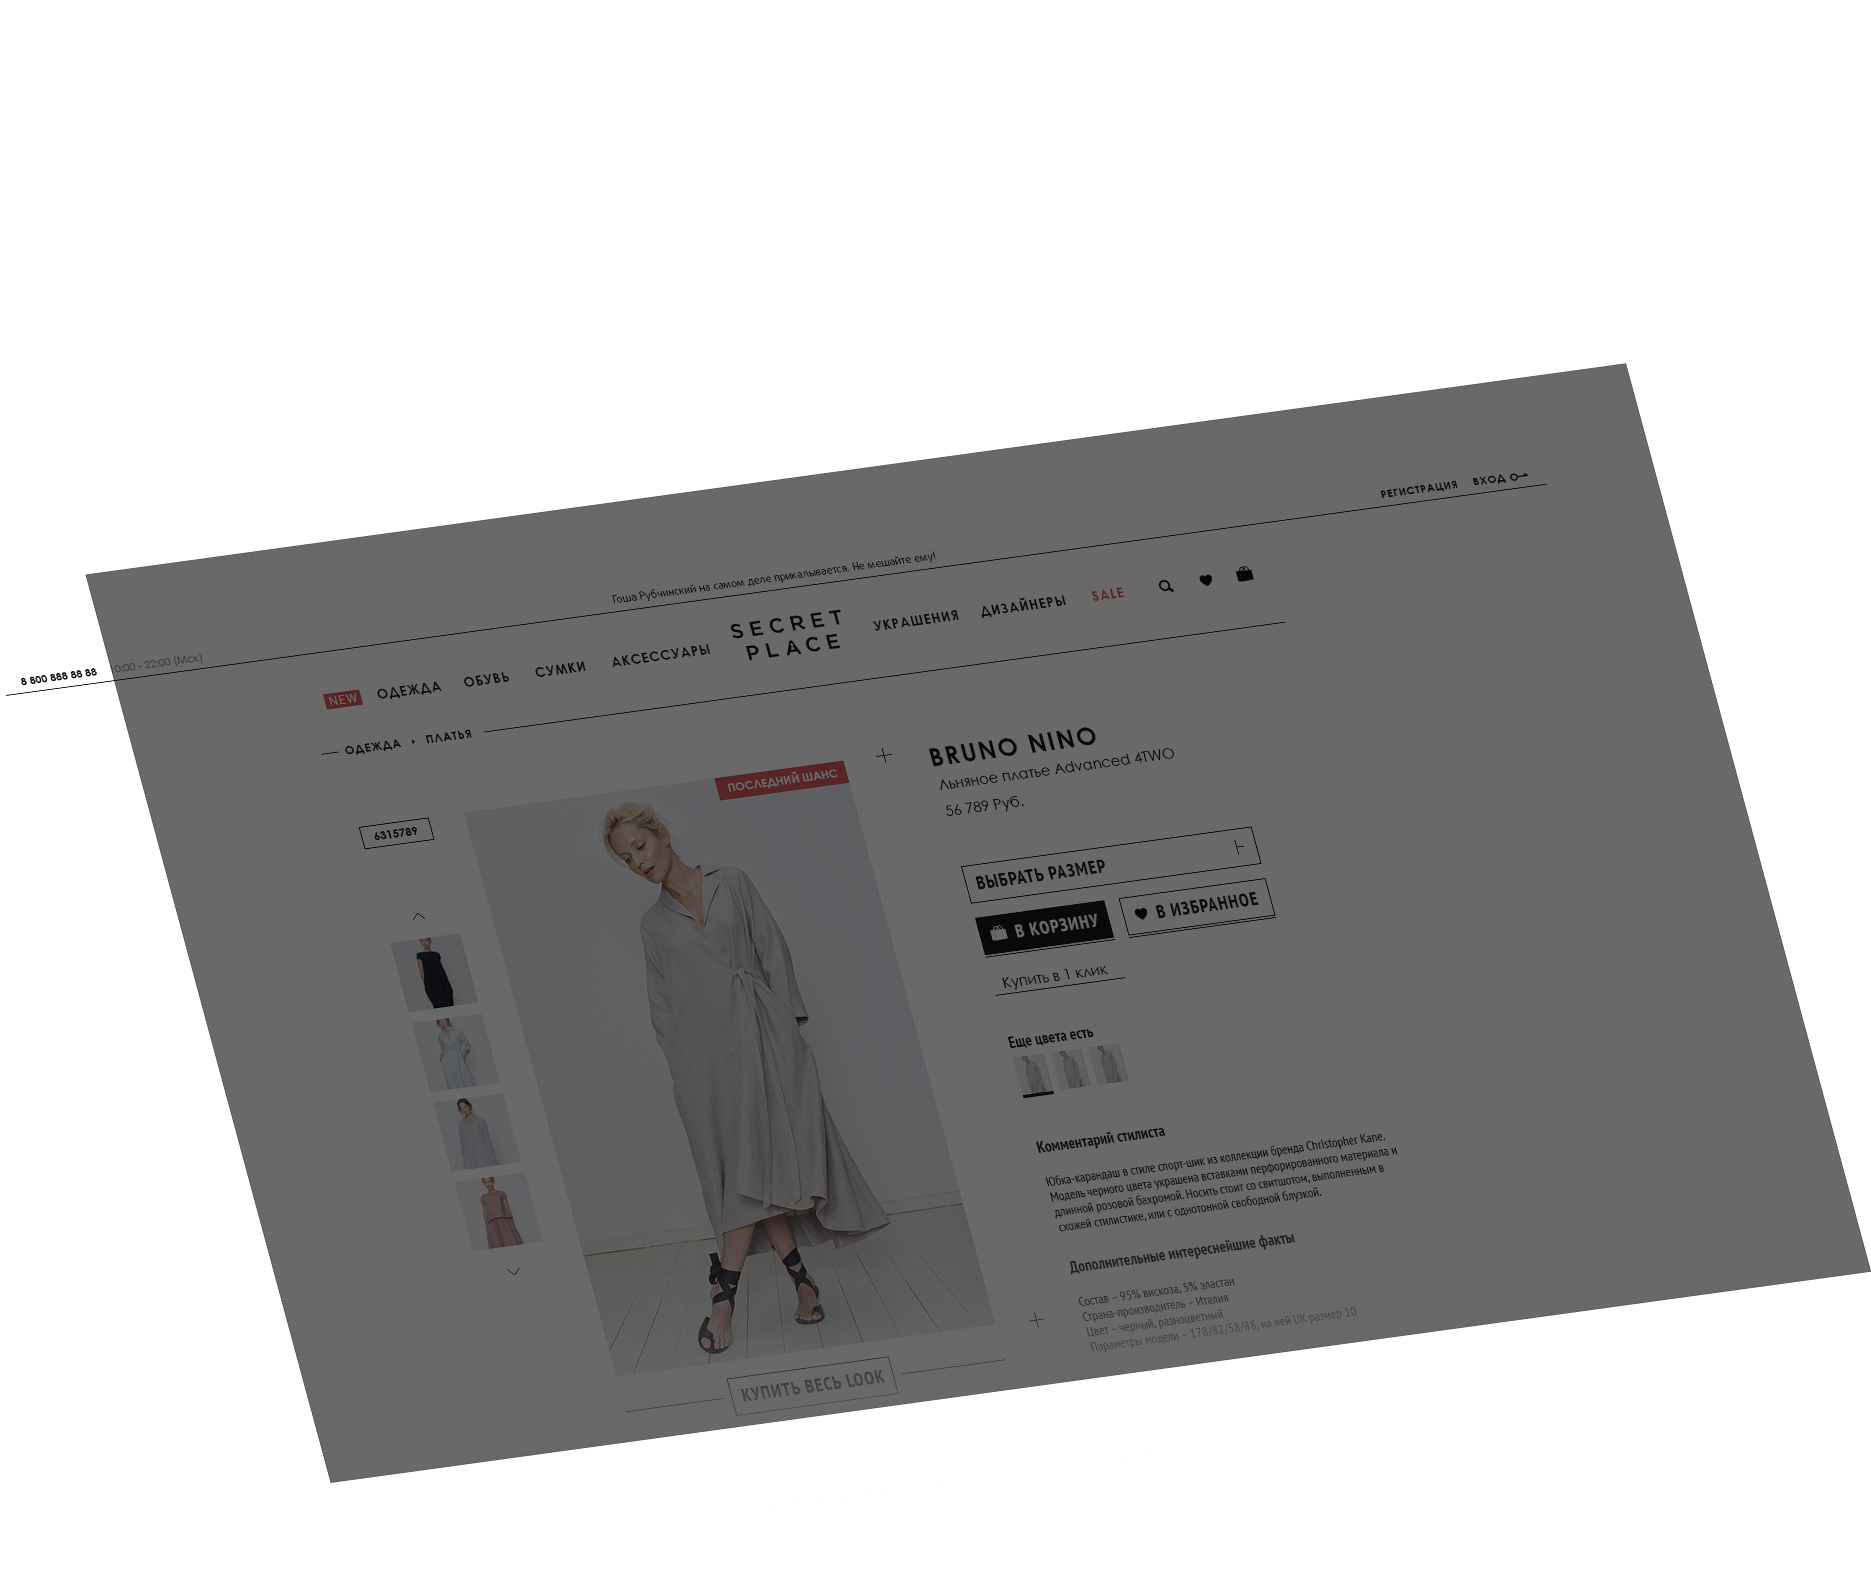
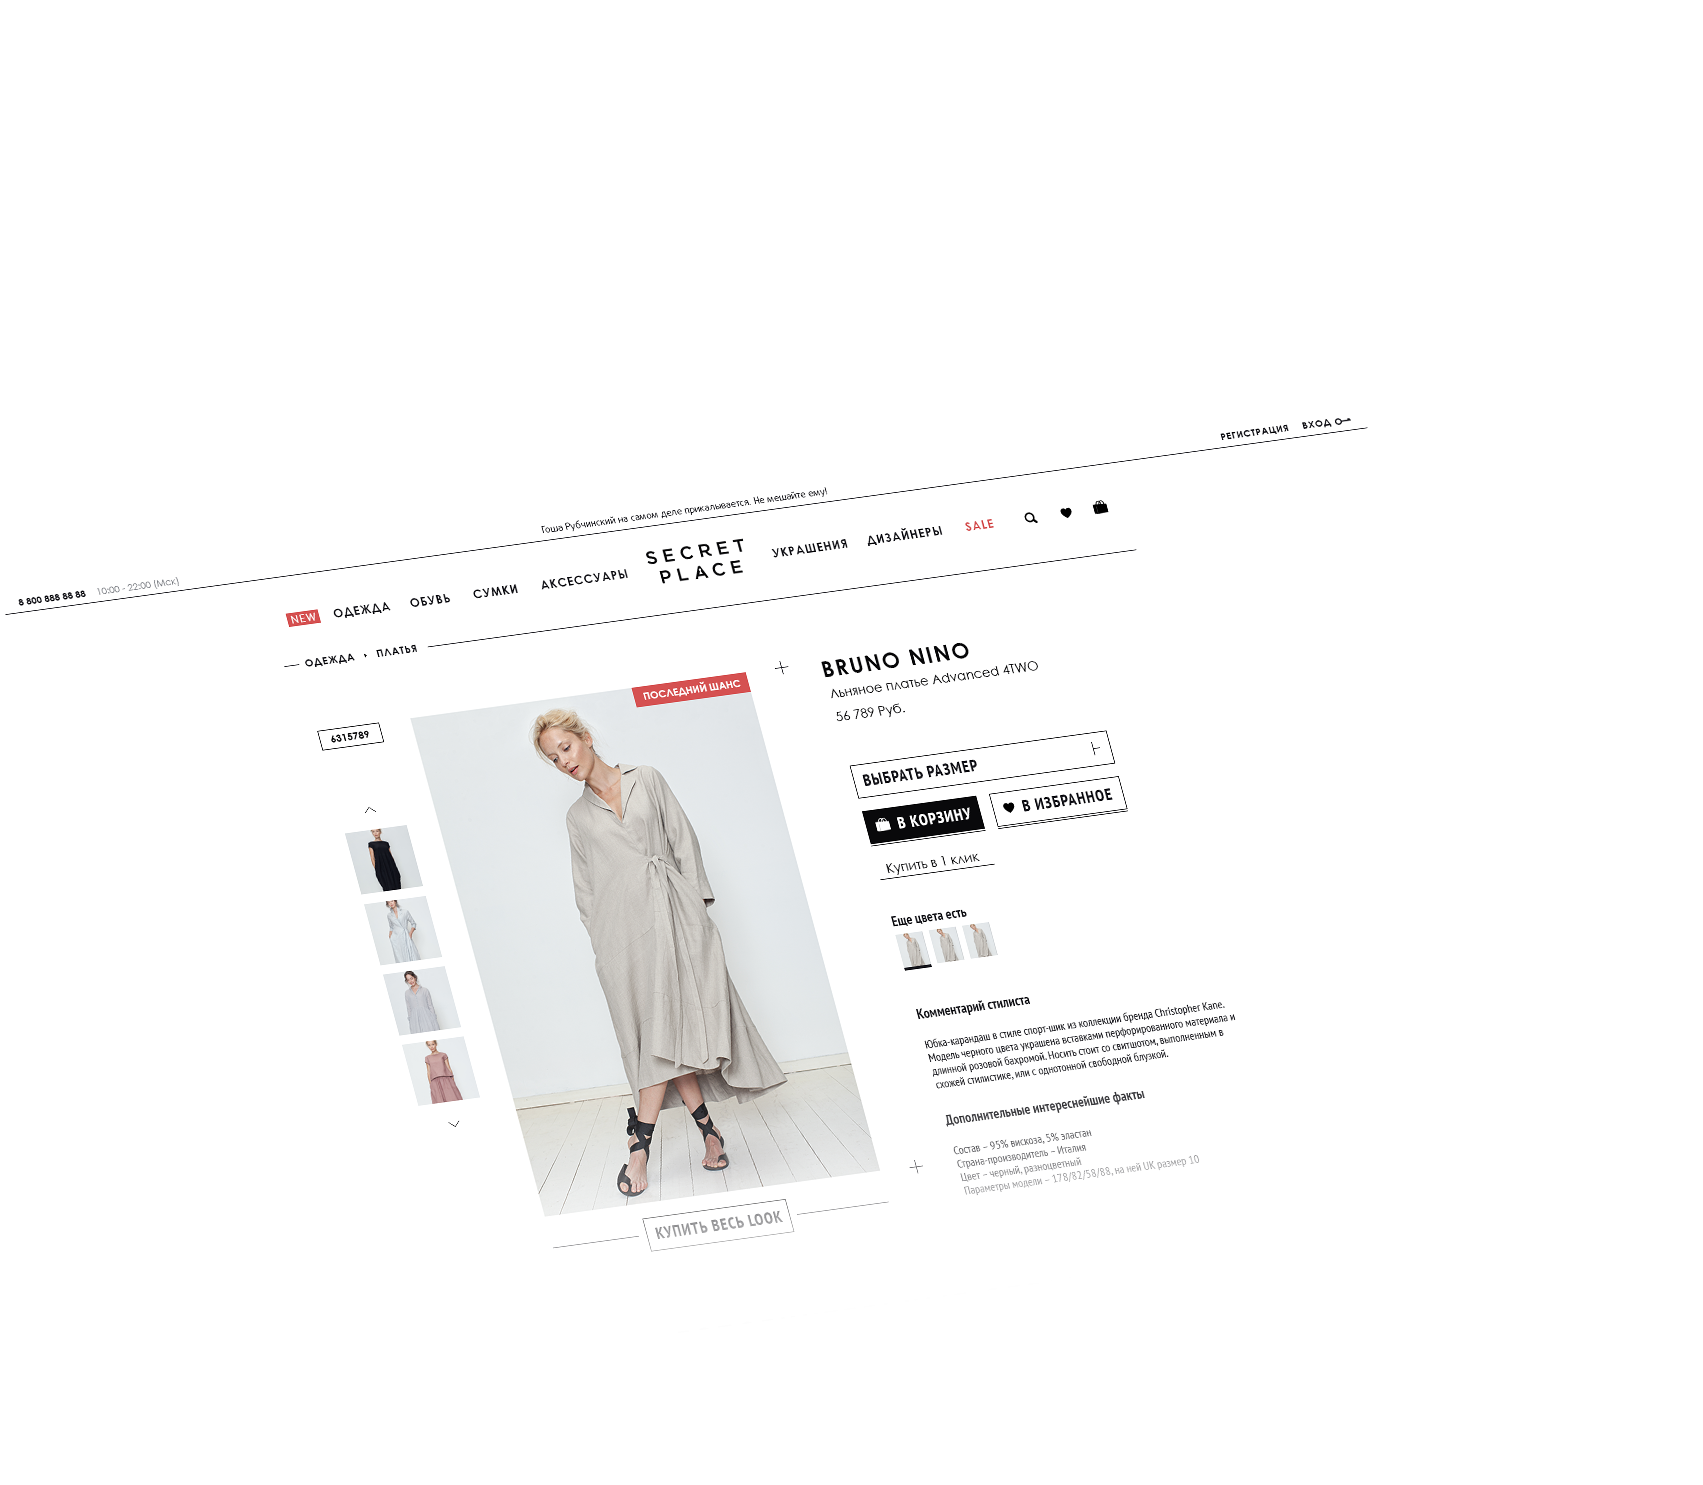
secret place last section

diff --git a/app/components/splace/splace.js b/app/components/splace/splace.js
@@ -22,6 +22,79 @@ export default function splace() {
       }, 0.1),
     ]);
 
+  const anim2 = new TimelineMax()
+    .add([
+      TweenMax.fromTo('.js-splace-1', 0.5, {
+        opacity: 0,
+        y: '10%',
+      }, {
+        opacity: 1,
+        y: '0%',
+        ease: Power1.easeIn,
+      }),
+    ])
+    .add([
+      TweenMax.fromTo('.js-splace-2', 0.6, {
+        opacity: 0,
+        y: '10%',
+      }, {
+        opacity: 1,
+        y: '0%',
+        ease: Power1.easeIn,
+      }),
+    ])
+    .add([
+      TweenMax.fromTo('.js-splace-3', 0.3, {
+        opacity: 0,
+        x: '-2%',
+        y: '-10%',
+      }, {
+        opacity: 1,
+        ease: Power1.easeIn,
+      }),
+    ])
+    .add([
+      TweenMax.to('.js-splace-3', 0.6, {
+        x: '0%',
+        y: '0%',
+        ease: Power1.easeIn,
+      }),
+    ], '-=0.2')
+    .add([
+      TweenMax.fromTo('.js-splace-7', 0.3, {
+        opacity: 0,
+      }, {
+        opacity: 1,
+        ease: Power1.easeIn,
+      }),
+    ], '-=0.3')
+    .add([
+      TweenMax.fromTo('.js-splace-4', 0.3, {
+        opacity: 0,
+        x: '-2%',
+        y: '-10%',
+      }, {
+        opacity: 1,
+        ease: Power1.easeIn,
+      }),
+    ], '-=0.2')
+    .add([
+      TweenMax.to('.js-splace-4', 0.6, {
+        x: '0%',
+        y: '0%',
+        ease: Power1.easeIn,
+      }),
+    ], '-=0.2')
+    .add([
+      TweenMax.fromTo('.js-splace-6', 0.3, {
+        opacity: 0,
+      }, {
+        opacity: 1,
+        ease: Power1.easeIn,
+      }),
+    ], '-=0.3');
+
+
   if ($('.splace').length > 0) {
     const scene = new ScrollMagic
       .Scene({
@@ -41,6 +114,16 @@ export default function splace() {
         triggerHook: 0.6,
       })
       .setTween(anim)
+      .addTo(controller);
+
+    const scene3 = new ScrollMagic
+      .Scene({
+        triggerElement: '.splace-look__figure',
+        duration: 0,
+        reverse: false,
+        triggerHook: .5,
+      })
+      .setTween(anim2)
       .addTo(controller);
   }
 }

diff --git a/app/components/splace/splace.scss b/app/components/splace/splace.scss
@@ -980,7 +980,7 @@
   &-look {
     display: block;
     width: 100%;
-    padding-top: 3.7%;
+    padding-top: 8.2%;
 
     @include screen('xl') {
       padding-top: 4.8%;
@@ -998,30 +998,31 @@
       position: relative;
       display: block;
       width: 100%;
-      padding-top: 82.3%;
+      padding-top: 77.3%;
+      // padding-top: 82.3%;
 
       @include screen('xl') {
-        padding-top: 80%;
+        padding-top: 75%;
+        // padding-top: 80%;
       }
 
       @include screen('md') {
-        padding-top: 117.8%;
+        padding-top: 110.6%;
+        // padding-top: 117.8%;
       }
     }
 
     &__images {
       position: absolute;
-      display: block;
+      display: inline-block;
       top: 0;
-      left: 2.5%;
+      left: 7.3%;
+      // left: 2.5%;
       height: 100%;
 
-      @include screen('xl') {
-        left: 2.3%;
-      }
-
       @include screen('md') {
-        left: -21.6%;
+        left: -13.4%;
+        // left: -21.6%;
       }
     }
 
@@ -1038,7 +1039,7 @@
     &__describe {
       display: block;
       width: 100%;
-      margin-top: -4.1%;
+      margin-top: -3.6%;
 
       @include screen('md') {
         margin-top: 0;
